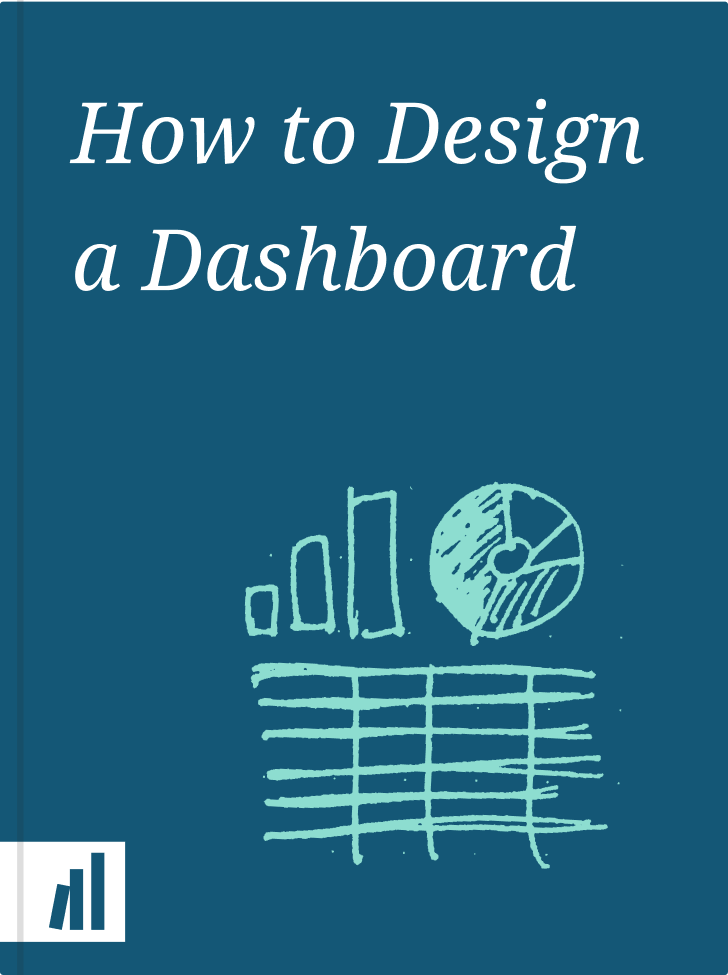
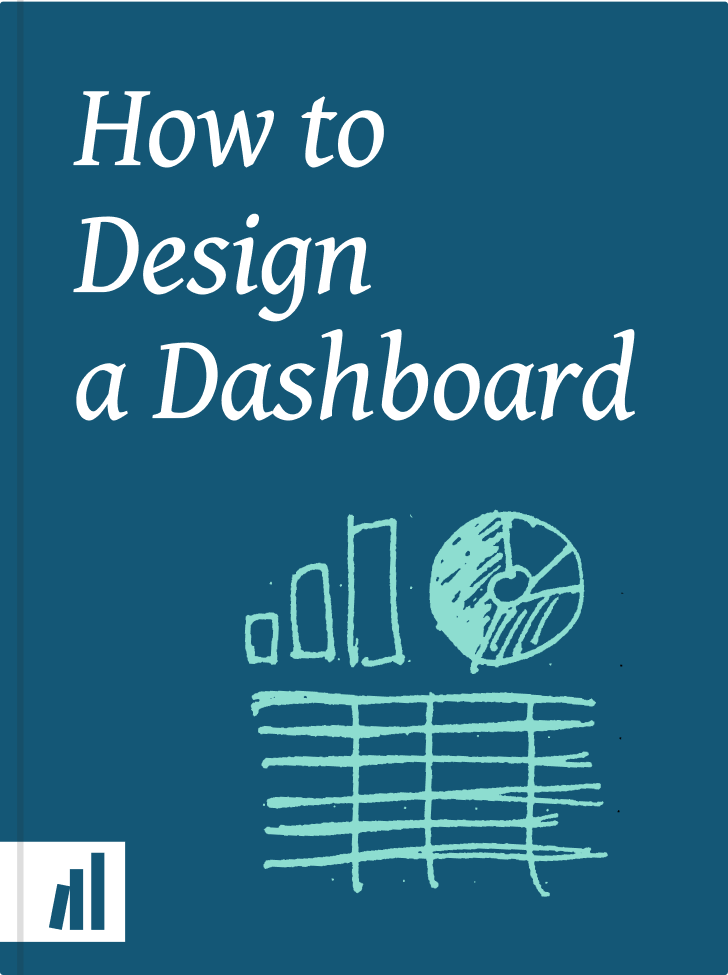
adding titles to main pages, fleshing out library page a bit more

diff --git a/dataschool/_sass/_components.scss b/dataschool/_sass/_components.scss
@@ -9,7 +9,7 @@
     margin-left: 3rem;
     img {
       box-shadow: 2px 2px 10px 0 rgba(0,0,0,.2), 0 4px 25px 0 rgba(0,0,0,.2);
-      max-width: 16rem;
+      max-width: 14rem;
     }
   }
   &::before {
@@ -67,18 +67,29 @@
   }
 }
 
-.contributors-list {
+.contributors-list, .book-list {
+  list-style: none;
   li {
     margin-bottom: 1rem;
     a {
       display: flex;
       align-items: flex-start;
-      img {
-        width: 6rem;
-        margin-right: 0.5rem;
+      .description {
+        flex-grow: 1;
+        h2 {
+          margin-top: 0;
+        }
       }
     }
   }
+}
+.contributors-list li a img {
+  width: 6rem;
+  margin-right: 0.5rem;
+}
+.book-list li a img {
+  width: 6rem;
+  margin-left: 1rem;
 }
 
 /* styles for Hubspot forms */

diff --git a/dataschool/_includes/navigation.html b/dataschool/_includes/navigation.html
@@ -4,10 +4,11 @@
     <img src="/uploads/data-school-logo.png"/>
   </a>
   <ul class="list-unstyled main-nav components">
-    <li><a href="/books/">Books</a></li>
-    <li><a href="/mission/">Mission</a></li>
+    <li><a href="/books/">Web Books</a></li>
     <li><a href="/people/">Contributors</a></li>
-    <li><a href="/books/">Slack Community</a></li>
+    <li><a href="/mission/">Mission</a></li>
+    <li><a href="#">Contribute</a></li>
+    <li><a href="#">Slack Community</a></li>
   </ul>
   {% if page.layout == "chapter" or page.layout == "book" %}
     {% assign book = site.books | where:'slug', page.book_slug %}

diff --git a/dataschool/_sass/_base.scss b/dataschool/_sass/_base.scss
@@ -10,7 +10,7 @@ html, body {
 html {
   min-height: 100%;
   font-size: 150%;
-
+  background: #F6F6F6;
   // @media(max-width: 57em) {
   //     font-size: 141%;
   // }
@@ -44,7 +44,13 @@ h1, h2, h3, h4, h5, h6 {
 h4, h5, h6 {
   color: $text-color;
 }
-h1.mega-title {font-size: 2.986em;}
+h1.mega-title, h1.title {
+  font-family: $serif-font-loadout;
+}
+h1.mega-title {
+  font-size: 2.986em;
+  font-style: italic;
+}
 h1.title {font-size: 2.488em;}
 h1 {
   margin-top: 0;
@@ -105,6 +111,7 @@ article {
 .btn {
   font-weight: 600;
   border-radius: 0.25em;
+  font-size: 1em;
 }
 
 // CUSTOM UTILITY CLASSES

diff --git a/dataschool/_layouts/chapter.html b/dataschool/_layouts/chapter.html
@@ -3,7 +3,7 @@ layout: default
 ---
 <article>
   <header>
-    <h1>{{ page.title | escape }}</h1>
+    <h1 class="title">{{ page.title | escape }}</h1>
     <p>last modified: {{ page.last_modified_at | date: '%B %d %Y' }}</p>
     {% for author in page.authors %}
       <p>{{ author.person.title }}</p>

diff --git a/dataschool/books.md b/dataschool/books.md
@@ -2,11 +2,17 @@
 title: Content Library
 layout: default
 ---
-<ul>
+<h1 class="title centered">The Data School Library</h1>
+<ul class="book-list mt-5">
   {% for book in site.books %}
   <li>
-    <a href="{{ book.url }}">{{ book.title }}</a>
-    <p>{{ book.description }}</p>
+    <a href="{{ book.url }}">
+      <div class="description">
+        <h2>{{ book.title }}</h2>
+        {{ book.content }}
+      </div>
+      <img src="{{ book.cover_image }}" alt="{{ book.title }} Data School web book cover" title="Read the {{ book.title }} web book">
+    </a>
   </li>
   {% endfor %}
 </ul>

diff --git a/dataschool/index.md b/dataschool/index.md
@@ -43,7 +43,7 @@ layout: default-breakout
     </div>
   </div>
   <div class="row">
-    <div class="col-sm centered">
+    <div class="col-sm centered mt-5 mb-3">
       <h2>Get new data chapters sent right to your Inbox</h2>
       {% include newsletter-form.html %}
     </div>

diff --git a/dataschool/people.md b/dataschool/people.md
@@ -2,7 +2,7 @@
 title: Contributors and Reviewers
 layout: default
 ---
-<h1>Contributors of Data School</h1>
+<h1 class="title centered">Contributors of Data School</h1>
 <ul class="contributors-list list-unstyled">
   {% for person in site.people %}
     <li>

diff --git a/dataschool/mission.md b/dataschool/mission.md
@@ -2,6 +2,7 @@
 title: Our Mission
 tags: ["mission"]
 ---
+<h1 class="title centered">Our Mission</h1>
 
 At Chartio we describe our mission in four words which, not coincidentally, can be understood by both people and machines. Our mission is to:
 

diff --git a/dataschool/_books/learn-sql.md b/dataschool/_books/learn-sql.md
@@ -3,7 +3,7 @@ title: Learn SQL
 book_slug: learn-sql
 authors:
   - author: _people/dave.md
-cover_image: /uploads/teach-ppl-sql-cover.png
+cover_image: /uploads/learn-sql-cover.png
 main_color: "#1B753A"
 is_hidden: false
 is_featured: true

diff --git a/dataschool/test.md b/dataschool/test.md
@@ -1,6 +1,7 @@
 ---
 layout: default
 ---
+<h1 class="title centered">Data School Styles</h1>
 
 # Heading Size One
 
